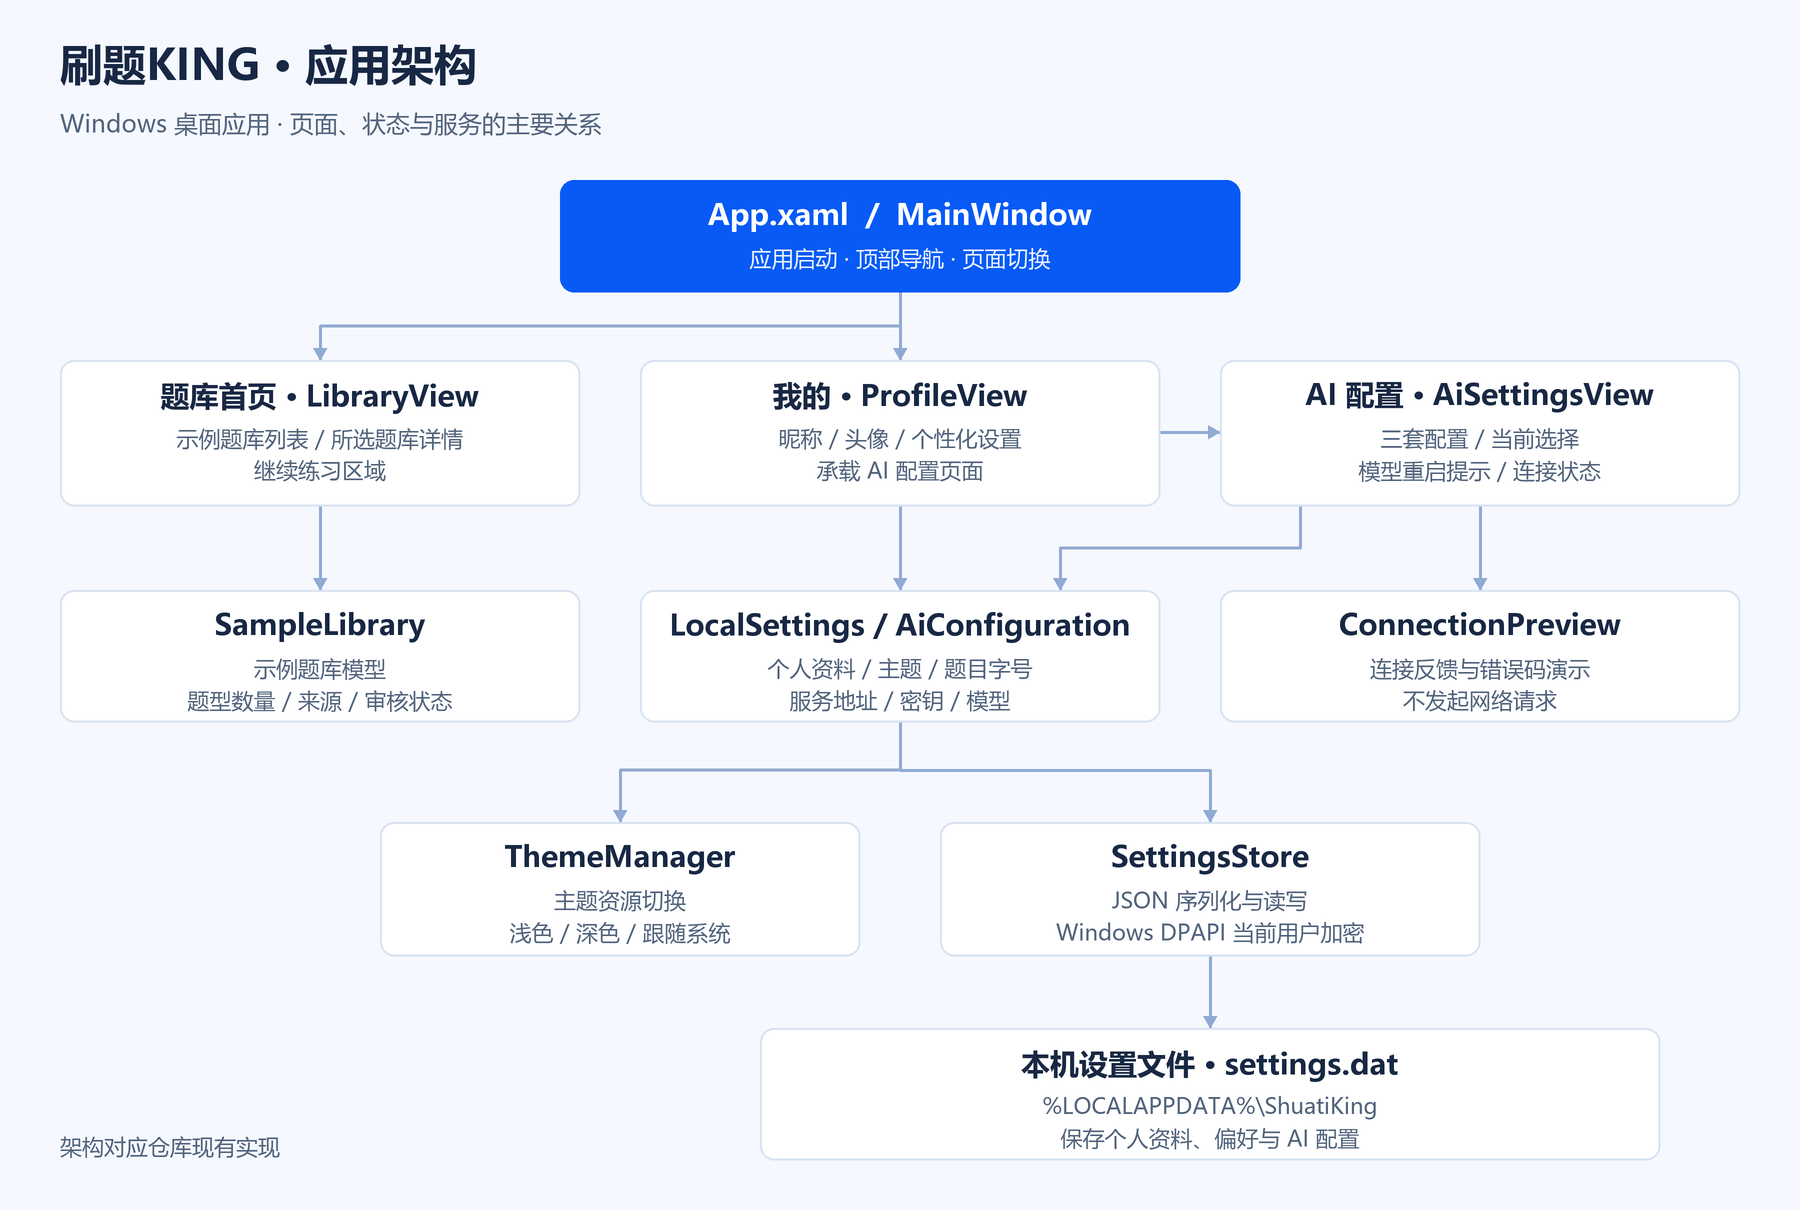
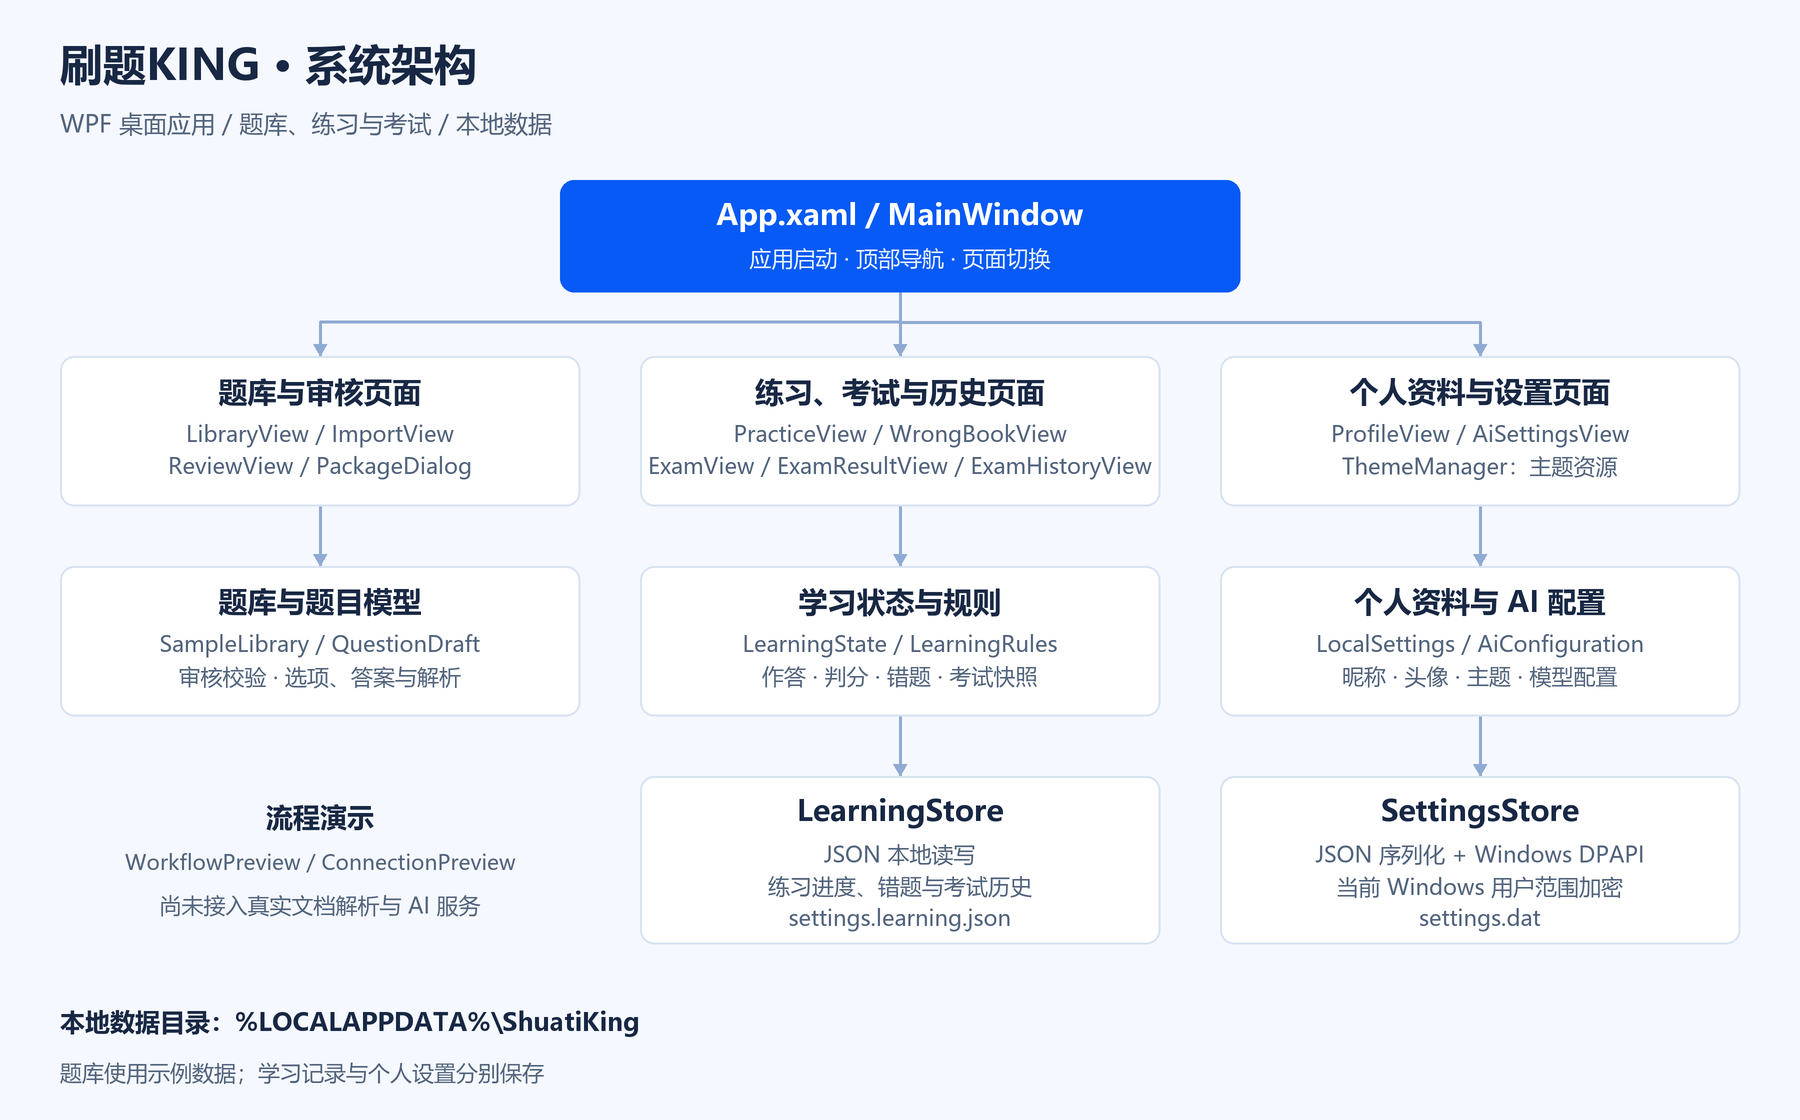
优化README内容
1. 重写项目介绍、核心功能、技术栈和目录说明，移除无用标签。
2. 保留界面截图，更新架构图及绘图源文件，补充练习、考试、历史记录与本地存储关系。
3. 完善启动、发布和校验方法，说明本地数据格式及当前演示功能范围。

diff --git a/docs/render_architecture.py b/docs/render_architecture.py
@@ -4,7 +4,7 @@ from PIL import Image, ImageDraw, ImageFont
 
 ROOT = Path(__file__).resolve().parents[1]
 SCALE = 2
-image = Image.new('RGB', (1800 * SCALE, 1210 * SCALE), '#F5F8FE')
+image = Image.new('RGB', (1800 * SCALE, 1120 * SCALE), '#F5F8FE')
 draw = ImageDraw.Draw(image)
 BLUE, INK, MUTED, LINE = '#075AF5', '#182844', '#52647D', '#D8E3F2'
 
@@ -38,30 +38,30 @@ def arrow(points):
     draw.polygon(head, fill='#8FAAD3')
 
 
-text(60, 44, '刷题KING · 应用架构', 43, bold=True)
-text(60, 112, 'Windows 桌面应用 · 页面、状态与服务的主要关系', 24, MUTED)
+text(60, 44, '刷题KING · 系统架构', 43, bold=True)
+text(60, 112, 'WPF 桌面应用 / 题库、练习与考试 / 本地数据', 24, MUTED)
 
-arrow([(900, 292), (900, 326), (320, 326), (320, 360)])
-arrow([(900, 292), (900, 360)])
-arrow([(1160, 432), (1220, 432)])
-arrow([(320, 506), (320, 590)])
-arrow([(900, 506), (900, 590)])
-arrow([(1480, 506), (1480, 590)])
-arrow([(1300, 506), (1300, 548), (1060, 548), (1060, 590)])
-arrow([(900, 722), (900, 770), (620, 770), (620, 822)])
-arrow([(900, 722), (900, 770), (1210, 770), (1210, 822)])
-arrow([(1210, 956), (1210, 1028)])
+for x in (320, 900, 1480):
+    arrow([(900, 292), (900, 322), (x, 322), (x, 356)])
+    arrow([(x, 506), (x, 566)])
+arrow([(900, 716), (900, 776)])
+arrow([(1480, 716), (1480, 776)])
 
-box(560, 180, 680, 112, 'App.xaml  /  MainWindow', ['应用启动 · 顶部导航 · 页面切换'], primary=True)
-box(60, 360, 520, 146, '题库首页 · LibraryView', ['示例题库列表 / 所选题库详情', '继续练习区域'])
-box(640, 360, 520, 146, '我的 · ProfileView', ['昵称 / 头像 / 个性化设置', '承载 AI 配置页面'])
-box(1220, 360, 520, 146, 'AI 配置 · AiSettingsView', ['三套配置 / 当前选择', '模型重启提示 / 连接状态'])
-box(60, 590, 520, 132, 'SampleLibrary', ['示例题库模型', '题型数量 / 来源 / 审核状态'])
-box(640, 590, 520, 132, 'LocalSettings / AiConfiguration', ['个人资料 / 主题 / 题目字号', '服务地址 / 密钥 / 模型'])
-box(1220, 590, 520, 132, 'ConnectionPreview', ['连接反馈与错误码演示', '不发起网络请求'])
-box(380, 822, 480, 134, 'ThemeManager', ['主题资源切换', '浅色 / 深色 / 跟随系统'])
-box(940, 822, 540, 134, 'SettingsStore', ['JSON 序列化与读写', 'Windows DPAPI 当前用户加密'])
-box(760, 1028, 900, 132, '本机设置文件 · settings.dat', [r'%LOCALAPPDATA%\ShuatiKing', '保存个人资料、偏好与 AI 配置'])
-text(60, 1136, '架构对应仓库现有实现', 22, MUTED)
+box(560, 180, 680, 112, 'App.xaml / MainWindow', ['应用启动 · 顶部导航 · 页面切换'], primary=True)
+box(60, 356, 520, 150, '题库与审核页面', ['LibraryView / ImportView', 'ReviewView / PackageDialog'])
+box(640, 356, 520, 150, '练习、考试与历史页面', ['PracticeView / WrongBookView', 'ExamView / ExamResultView / ExamHistoryView'])
+box(1220, 356, 520, 150, '个人资料与设置页面', ['ProfileView / AiSettingsView', 'ThemeManager：主题资源'])
 
-image.resize((1800, 1210), Image.Resampling.LANCZOS).save(ROOT / 'assets' / 'architecture.png', optimize=True)
+box(60, 566, 520, 150, '题库与题目模型', ['SampleLibrary / QuestionDraft', '审核校验 · 选项、答案与解析'])
+box(640, 566, 520, 150, '学习状态与规则', ['LearningState / LearningRules', '作答 · 判分 · 错题 · 考试快照'])
+box(1220, 566, 520, 150, '个人资料与 AI 配置', ['LocalSettings / AiConfiguration', '昵称 · 头像 · 主题 · 模型配置'])
+
+box(640, 776, 520, 168, 'LearningStore', ['JSON 本地读写', '练习进度、错题与考试历史', 'settings.learning.json'])
+box(1220, 776, 520, 168, 'SettingsStore', ['JSON 序列化 + Windows DPAPI', '当前 Windows 用户范围加密', 'settings.dat'])
+text(320, 804, '流程演示', 27, bold=True, center=True)
+text(320, 853, 'WorkflowPreview / ConnectionPreview', 21, MUTED, center=True)
+text(320, 895, '尚未接入真实文档解析与 AI 服务', 22, MUTED, center=True)
+text(60, 1010, r'本地数据目录：%LOCALAPPDATA%\ShuatiKing', 25, bold=True)
+text(60, 1062, '题库使用示例数据；学习记录与个人设置分别保存', 22, MUTED)
+
+image.resize((1800, 1120), Image.Resampling.LANCZOS).save(ROOT / 'assets' / 'architecture.png', optimize=True)

diff --git a/README.md b/README.md
@@ -1,30 +1,48 @@
 <div align="center">
-  <img src="assets/logo-animated.gif" alt="刷题KING 动态 LOGO" width="112" />
+  <img src="assets/logo-animated.gif" width="112" alt="刷题KING Logo" />
   <h1>刷题KING</h1>
-  <p><strong>把学习资料，变成自己的刷题工作台。</strong></p>
-  <p>面向 PDF、Word 与文本资料的 Windows 桌面刷题工具</p>
+  <p><strong>从学习资料到日常练习，打造自己的桌面题库。</strong></p>
+  <p>题库管理 · 四种题型 · 错题复习 · 模拟考试</p>
   <p>
-    <img src="https://img.shields.io/badge/Platform-Windows-0078D4?style=flat-square" alt="Windows 桌面应用" />
-    <img src="https://img.shields.io/badge/Interface-简体中文-075AF5?style=flat-square" alt="简体中文界面" />
-    <img src="https://img.shields.io/badge/Data-Local_First-19704F?style=flat-square" alt="数据优先保存在本地" />
+    <img src="https://img.shields.io/badge/C%23-512BD4?style=flat-square" alt="C#" />
+    <img src="https://img.shields.io/badge/.NET-10-512BD4?style=flat-square" alt=".NET 10" />
+    <img src="https://img.shields.io/badge/WPF-075AF5?style=flat-square" alt="WPF" />
+    <a href="LICENSE"><img src="https://img.shields.io/badge/License-Apache--2.0-19704F?style=flat-square" alt="Apache License 2.0" /></a>
   </p>
+  <p><a href="#界面一览">界面一览</a> · <a href="#系统架构">系统架构</a> · <a href="#技术栈">技术栈</a> · <a href="#快速启动">快速启动</a></p>
 </div>
 
-## 关于刷题KING
+## 项目介绍
 
-刷题KING围绕个人资料建库、日常练习和模拟考试设计，使用 C# 与 WPF 构建原生 Windows 桌面界面。题库工作台采用蓝白配色、顶部导航和左右分栏，让题库列表与所选内容保持在同一个视野中。
+刷题KING是一款基于 C#、.NET 10 和 WPF 开发的 Windows 桌面刷题软件，围绕资料建库、题目审核、日常练习、模拟考试与错题复习组织学习流程。无需注册账号，个人设置与学习记录保存在本机。
 
-- **题库工作台**：列表与详情联动，展示资料来源、题型数量和审核状态，并保留继续练习入口。
-- **本地个人档案**：设置昵称与头像，保存到当前电脑，无需账号登录。
-- **自定义 AI 配置**：最多保存三套服务地址、API 密钥和模型配置，按需选择，模型变更后提示重启生效。
-- **个性化体验**：浅色、深色、跟随系统三种主题，提供四档题目字号与即时预览。
-- **本机加密存储**：个人设置与 AI 配置使用 Windows 当前用户加密保存。
+项目面向 PDF、Word 和文字资料建库场景。目前可基于示例题库体验练习、考试和历史回看；文件内容提取、AI 出题、AI 连接检查及题库包导入导出仍为流程演示，尚未接入真实文档解析或模型服务。
 
-> 使用说明：题库界面采用示例数据；连接检查用于展示进行中、成功和失败状态，不发送真实请求，演示成功不代表服务已经连通。
+## 核心功能
+
+| 功能 | 内容 |
+| --- | --- |
+| 题库管理 | 查看资料来源、题型数量与审核状态，切换题库并继续上次练习 |
+| 题目审核 | 编辑题干、选项、答案与解析，支持填空可接受答案、批量确认和缺答案校验 |
+| 日常练习 | 顺序练习、随机练习、错题重练，支持单选、多选、判断与填空 |
+| 错题复习 | 练习和考试答错后加入错题本，之后答对一次自动移出 |
+| 模拟考试 | 勾选题型、拖动排序，设置题量、每题分值和时长，支持暂停恢复与到时交卷 |
+| 考试记录 | 查看成绩、用时和逐题解析，保留考试当时的题目、答案与评分 |
+| 个人设置 | 昵称与头像、三套 AI 配置、浅色／深色／跟随系统主题和题目字号 |
 
 ## 界面一览
 
-![刷题KING题库首页：顶部导航、题库列表与详情](assets/preview-home.png)
+### 题库首页
+
+![刷题KING题库首页，展示题库列表、题型详情和继续练习入口](assets/preview-home.png)
+
+## 系统架构
+
+![刷题KING系统架构：WPF 页面、题库模型、学习规则与本地存储](assets/architecture.png)
+
+主窗口负责导航和页面切换。题库与审核页面操作题库模型，练习、考试及历史页面共享学习状态与评分规则；学习记录由 `LearningStore` 保存，个人资料和 AI 配置由 `SettingsStore` 加密保存。
+
+架构图源文件：[docs/render_architecture.py](docs/render_architecture.py)。
 
 ## 技术栈
 
@@ -32,44 +50,53 @@
   <tr>
     <td align="center" width="33%">
       <img src="https://img.shields.io/badge/C%23-512BD4?style=for-the-badge" alt="C#" /><br />
-      <strong>应用开发</strong><br />桌面交互与本地服务
+      <strong>业务逻辑</strong><br />题目校验、练习状态与考试评分
     </td>
     <td align="center" width="33%">
       <img src="https://img.shields.io/badge/.NET-10-512BD4?style=for-the-badge" alt=".NET 10" /><br />
-      <strong>运行平台</strong><br />net10.0-windows
+      <strong>运行平台</strong><br />Windows 桌面运行与单文件发布
     </td>
     <td align="center" width="33%">
-      <img src="https://img.shields.io/badge/WPF-075AF5?style=for-the-badge" alt="WPF" /><br />
-      <strong>原生桌面界面</strong><br />窗口、控件与页面导航
-    </td>
-  </tr>
-  <tr>
-    <td align="center">
-      <img src="https://img.shields.io/badge/XAML-0C7DB1?style=for-the-badge" alt="XAML" /><br />
-      <strong>布局与样式</strong><br />声明式界面与动态主题资源
-    </td>
-    <td align="center">
-      <img src="https://img.shields.io/badge/System.Text.Json-52647D?style=for-the-badge" alt="System.Text.Json" /><br />
-      <strong>设置序列化</strong><br />本地设置对象的 JSON 编解码
-    </td>
-    <td align="center">
-      <img src="https://img.shields.io/badge/Windows_DPAPI-19704F?style=for-the-badge" alt="Windows DPAPI" /><br />
-      <strong>数据保护</strong><br />当前 Windows 用户范围加密
+      <img src="https://img.shields.io/badge/WPF_/_XAML-075AF5?style=for-the-badge" alt="WPF / XAML" /><br />
+      <strong>桌面界面</strong><br />页面布局、控件交互与主题资源
     </td>
   </tr>
 </table>
 
-## 应用架构
+本地数据使用 `System.Text.Json` 序列化；个人资料与 AI 配置通过 Windows DPAPI 加密。界面和交互校验使用 WPF 校验项目运行。
 
-![刷题KING应用架构：窗口入口、页面、本地模型、主题服务和加密设置存储](assets/architecture.png)
+## 目录结构
 
-主窗口负责启动和页面切换，页面处理各自的交互；`LocalSettings` 与 `AiConfiguration` 保存设置状态，`SettingsStore` 完成 JSON 序列化、加密和本地读写。`ConnectionPreview` 提供连接反馈演示。
+```text
+shuati-king/
+├─ src/                         # 桌面应用源码
+│  ├─ App.xaml                  # 应用入口与全局资源
+│  ├─ MainWindow.xaml            # 主窗口与顶部导航
+│  ├─ Models/                    # 题库、题目、设置与学习状态
+│  ├─ Services/                  # 评分规则、存储、主题与流程演示
+│  ├─ Styles/                    # 控件样式和主题资源
+│  ├─ Views/                     # 题库、审核、练习、考试与个人页面
+│  ├─ Properties/PublishProfiles/
+│  │  └─ Portable.pubxml         # 自带运行时的单文件发布配置
+│  └─ ShuatiKing.App.csproj
+├─ tests/                       # 模型、页面交互与学习流程校验
+├─ assets/                      # LOGO、界面截图与架构图
+├─ docs/                        # 架构图绘图源文件
+├─ design-previews/             # 界面设计参考
+├─ Directory.Build.props        # 统一构建产物路径
+├─ README.md
+└─ LICENSE
+```
 
-架构图为 PNG 图片，绘图源文件位于 [`docs/render_architecture.py`](docs/render_architecture.py)。
+构建产物集中保存在 `.artifacts/`；临时草稿、截图和辅助脚本集中保存在 `.scratch/`，按用途分二级目录。这两个目录均不进入 Git。
 
 ## 快速启动
 
-环境要求：**Windows + .NET 10 SDK**。
+### 从源码运行
+
+开发环境：Windows、.NET 10 SDK，支持 Windows 桌面开发。
+
+在终端执行：
 
 ```powershell
 git clone https://github.com/xmgbg/shuati-king.git
@@ -77,46 +104,51 @@ cd shuati-king
 dotnet run --project src
 ```
 
-## 构建与校验
+### 发布 EXE
+
+在项目根目录执行：
 
 ```powershell
-# 构建桌面应用
+dotnet publish src -p:PublishProfile=Portable
+```
+
+输出位置：
+
+```text
+.artifacts/app/ShuatiKing.exe
+```
+
+发布包面向 Windows x64，自带 .NET 运行时，可直接双击运行，无需另装 .NET Desktop Runtime。后续发布会更新同一位置的 EXE，更新前请先关闭正在运行的程序。
+
+### 构建与校验
+
+```powershell
+# Release 构建
 dotnet build src --configuration Release
 
-# 发布自带运行时的单文件 EXE
-dotnet publish src -p:PublishProfile=Portable
-
-# 运行 WPF 界面与交互校验
+# 运行模型与界面交互校验
 dotnet run --project tests
 ```
 
-校验使用独立的临时设置文件，覆盖题库切换、个人资料恢复、配置数量上限、模型重启提示和连接状态展示。临时校验数据在结束后自动清理。默认不生成截图；需要检查页面时，使用 `dotnet run --project tests -- --screenshots`，图片保存到 `.scratch/screenshots/`。
+校验使用独立临时数据，结束后自动清理。默认不生成截图；需要检查界面时执行：
 
-构建产物统一保存在 `.artifacts/`，不进入 Git：`app/ShuatiKing.exe` 是可直接运行的发布版本，`bin/` 和 `obj/` 存放编译文件，`checks/` 存放校验输出。重复发布会更新同一个 EXE。
-
-## 本地设置
-
-设置文件位置：
-
-```text
-%LOCALAPPDATA%\ShuatiKing\settings.dat
+```powershell
+dotnet run --project tests -- --screenshots
 ```
 
-昵称、头像与 AI 配置点击保存后写入本机；主题和题目字号选择后自动保存。设置文件使用 Windows DPAPI 当前用户范围加密，更换 Windows 用户或电脑后不能直接沿用该文件。
+截图统一输出至 `.scratch/screenshots/`。编译文件与中间文件分别位于 `.artifacts/bin/` 和 `.artifacts/obj/`。
 
-## 目录结构
+## 本地数据
 
-```text
-shuati-king/
-├─ assets/                       # LOGO、界面预览与架构图
-├─ design-previews/              # 界面设计参考
-├─ docs/                         # 架构图绘图源文件
-├─ src/
-│  ├─ App.xaml                   # 应用入口与全局资源
-│  ├─ MainWindow.xaml            # 主窗口与顶部导航
-│  ├─ Models/                    # 示例题库和本地设置模型
-│  ├─ Services/                  # 设置存储、主题与连接状态演示
-│  ├─ Styles/                    # 共享控件样式和颜色资源
-│  └─ Views/                     # 题库首页、个人资料与 AI 配置
-└─ tests/                        # 界面与交互校验
-```
+默认保存位置为 `%LOCALAPPDATA%\ShuatiKing\`：
+
+| 文件 | 保存内容 |
+| --- | --- |
+| `settings.dat` | 昵称、头像、主题、题目字号和 AI 配置；JSON 序列化后使用 DPAPI 加密 |
+| `settings.learning.json` | 练习进度、错题、当前考试与历史考试记录；以 JSON 保存 |
+
+`settings.dat` 绑定当前 Windows 用户，直接复制到其他电脑或用户下不能解密。学习记录文件不采用同样的加密方式。
+
+## 开源协议
+
+项目采用 [Apache License 2.0](LICENSE)。
